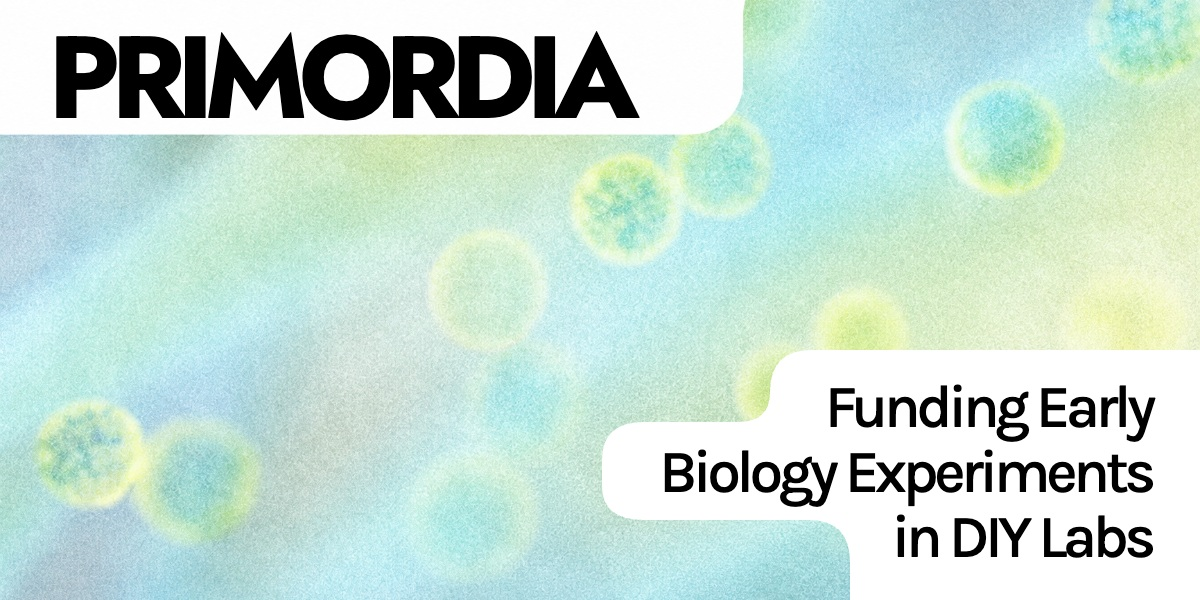
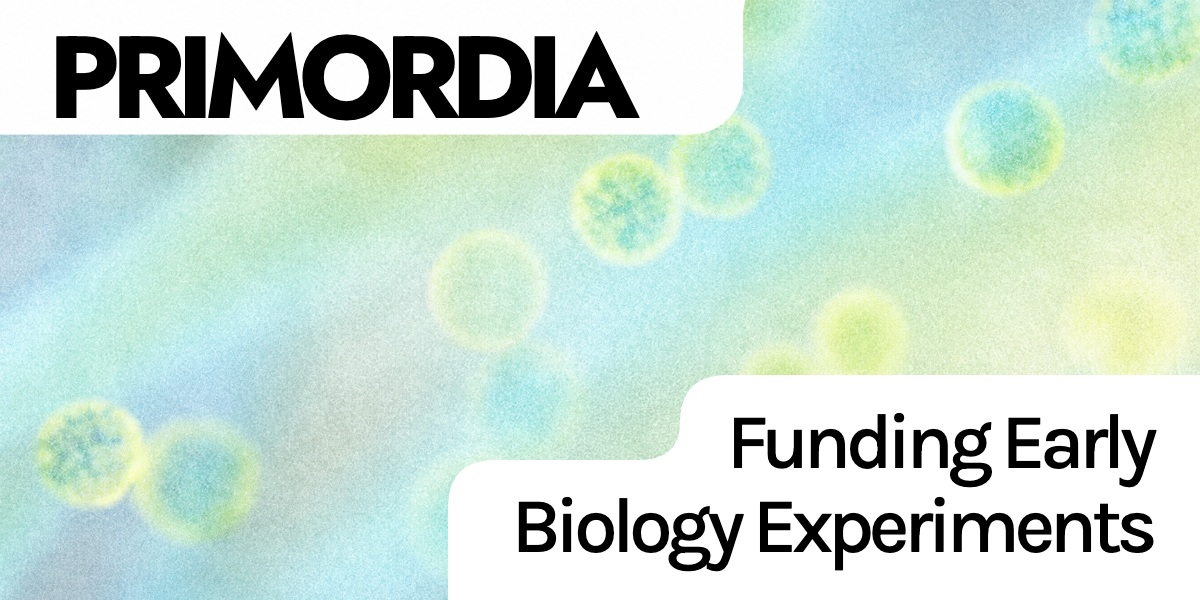
Simplify sharing headline and enlarge type within fitted cutout

Changed region(s): [[0.37, 0.57, 1.0, 1.0]]

diff --git a/tools/social-cards.html b/tools/social-cards.html
@@ -15,34 +15,34 @@
     h1, h2 { position: absolute; margin: 0; }
     /* Preserve the wordmark; give small-format headline lettering more air. */
     h1 { left: 48px; top: 28px; font: 700 122px/1 Jost, sans-serif; letter-spacing: -.08em; white-space: nowrap; }
-    h2 { right: 48px; top: 395px; font: 500 62px/1.08 Karla, sans-serif; letter-spacing: -.07em; text-align: right; }
+    h2 { right: 48px; top: 422px; font: 500 80px/1.08 Karla, sans-serif; letter-spacing: -.07em; text-align: right; }
     h2 span { display: block; white-space: nowrap; }
     .square { height: 1200px; }
     .square .art { width: 1280px; left: -40px; top: -180px; }
     .square h1 { left: 56px; top: 76px; font-size: 120px; }
-    .square h2 { left: 308px; right: 56px; top: 604px; font-size: 112px; line-height: 1.06; letter-spacing: -.04em; text-align: left; }
+    .square h2 { left: 308px; right: 56px; top: 604px; font-size: 138px; line-height: 1.06; letter-spacing: -.04em; text-align: left; }
     .x { height: 600px; }
     .x .art { top: -15px; }
     .x .cutout { top: -20px; }
     .x h1 { top: 20px; font-size: 116px; }
-    .x h2 { top: 375px; font-size: 60px; }
+    .x h2 { top: 400px; font-size: 78px; }
   </style>
 </head>
 <body>
-  <main class="card" aria-label="Primordia. Funding Early Biology Experiments in DIY Labs">
+  <main class="card" aria-label="Primordia. Funding Early Biology Experiments">
     <img class="art" src="social-background.png" alt="">
     <svg class="cutout" viewBox="0 0 1200 630" aria-hidden="true">
-      <path fill="white" d="M1200 370 H812 Q770 370 770 412 Q770 442 738 442 H644 Q602 442 602 480 V506 Q602 540 644 540 H808 Q850 540 850 582 V630 H1200 Z"/>
+      <path fill="white" d="M1200 395 H728 Q680 395 680 443 Q680 480 638 480 H496 Q448 480 448 528 V630 H1200 Z"/>
     </svg>
     <h1>PRIMORDIA</h1>
-    <h2><span>Funding Early</span><span>Biology Experiments</span><span>in DIY Labs</span></h2>
+    <h2><span>Funding Early</span><span>Biology Experiments</span></h2>
   </main>
   <script>
     const format = new URLSearchParams(location.search).get('format') || 'wide';
     document.querySelector('.card').classList.add(format);
     if (format === 'square') {
       document.querySelector('.art').src = '../images/primordia_hero_shape_mobile.webp';
-      document.querySelector('h2').innerHTML = '<span>Funding Early</span><span>Biology</span><span>Experiments</span><span>in DIY Labs</span>';
+      document.querySelector('h2').innerHTML = '<span>Funding Early</span><span>Biology</span><span>Experiments</span>';
     }
   </script>
 </body>

diff --git a/index.html b/index.html
@@ -20,7 +20,7 @@
     <meta property="og:image:type" content="image/jpeg" />
     <meta property="og:image:width" content="1200" />
     <meta property="og:image:height" content="630" />
-    <meta property="og:image:alt" content="Primordia wordmark and original biological artwork on white, with the words Funding early biology experiments in DIY labs" />
+    <meta property="og:image:alt" content="Primordia wordmark and pastel biological artwork, with the words Funding Early Biology Experiments" />
     <meta property="og:image" content="https://primordiagrants.com/images/social/primordia-square.jpg" />
     <meta property="og:image:type" content="image/jpeg" />
     <meta property="og:image:width" content="1200" />

diff --git a/about.html b/about.html
@@ -10,7 +10,7 @@
 <meta property="og:image:type" content="image/jpeg" />
 <meta property="og:image:width" content="1200" />
 <meta property="og:image:height" content="630" />
-<meta property="og:image:alt" content="Primordia wordmark and original biological artwork on white, with the words Funding early biology experiments in DIY labs" />
+<meta property="og:image:alt" content="Primordia wordmark and pastel biological artwork, with the words Funding Early Biology Experiments" />
 <meta property="og:image" content="https://primordiagrants.com/images/social/primordia-square.jpg" />
 <meta property="og:image:type" content="image/jpeg" />
 <meta property="og:image:width" content="1200" />

diff --git a/apply.html b/apply.html
@@ -11,7 +11,7 @@
 <meta property="og:image:type" content="image/jpeg" />
 <meta property="og:image:width" content="1200" />
 <meta property="og:image:height" content="630" />
-<meta property="og:image:alt" content="Primordia wordmark and original biological artwork on white, with the words Funding early biology experiments in DIY labs" />
+<meta property="og:image:alt" content="Primordia wordmark and pastel biological artwork, with the words Funding Early Biology Experiments" />
 <meta property="og:image" content="https://primordiagrants.com/images/social/primordia-square.jpg" />
 <meta property="og:image:type" content="image/jpeg" />
 <meta property="og:image:width" content="1200" />

diff --git a/cohort-1.html b/cohort-1.html
@@ -10,7 +10,7 @@
 <meta property="og:image:type" content="image/jpeg" />
 <meta property="og:image:width" content="1200" />
 <meta property="og:image:height" content="630" />
-<meta property="og:image:alt" content="Primordia wordmark and original biological artwork on white, with the words Funding early biology experiments in DIY labs" />
+<meta property="og:image:alt" content="Primordia wordmark and pastel biological artwork, with the words Funding Early Biology Experiments" />
 <meta property="og:image" content="https://primordiagrants.com/images/social/primordia-square.jpg" />
 <meta property="og:image:type" content="image/jpeg" />
 <meta property="og:image:width" content="1200" />

diff --git a/fund-experiments.html b/fund-experiments.html
@@ -11,7 +11,7 @@
 <meta property="og:image:type" content="image/jpeg" />
 <meta property="og:image:width" content="1200" />
 <meta property="og:image:height" content="630" />
-<meta property="og:image:alt" content="Primordia wordmark and original biological artwork on white, with the words Funding early biology experiments in DIY labs" />
+<meta property="og:image:alt" content="Primordia wordmark and pastel biological artwork, with the words Funding Early Biology Experiments" />
 <meta property="og:image" content="https://primordiagrants.com/images/social/primordia-square.jpg" />
 <meta property="og:image:type" content="image/jpeg" />
 <meta property="og:image:width" content="1200" />

diff --git a/grantees.html b/grantees.html
@@ -11,7 +11,7 @@
 <meta property="og:image:type" content="image/jpeg" />
 <meta property="og:image:width" content="1200" />
 <meta property="og:image:height" content="630" />
-<meta property="og:image:alt" content="Primordia wordmark and original biological artwork on white, with the words Funding early biology experiments in DIY labs" />
+<meta property="og:image:alt" content="Primordia wordmark and pastel biological artwork, with the words Funding Early Biology Experiments" />
 <meta property="og:image" content="https://primordiagrants.com/images/social/primordia-square.jpg" />
 <meta property="og:image:type" content="image/jpeg" />
 <meta property="og:image:width" content="1200" />

diff --git a/message.html b/message.html
@@ -10,7 +10,7 @@
 <meta property="og:image:type" content="image/jpeg" />
 <meta property="og:image:width" content="1200" />
 <meta property="og:image:height" content="630" />
-<meta property="og:image:alt" content="Primordia wordmark and original biological artwork on white, with the words Funding early biology experiments in DIY labs" />
+<meta property="og:image:alt" content="Primordia wordmark and pastel biological artwork, with the words Funding Early Biology Experiments" />
 <meta property="og:image" content="https://primordiagrants.com/images/social/primordia-square.jpg" />
 <meta property="og:image:type" content="image/jpeg" />
 <meta property="og:image:width" content="1200" />
